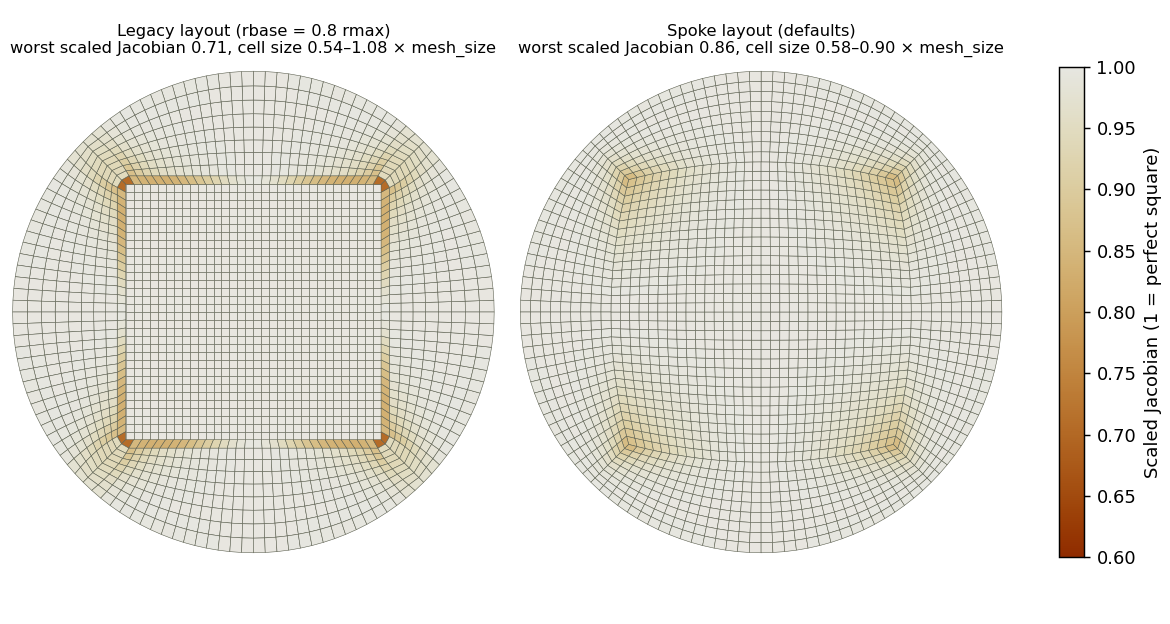
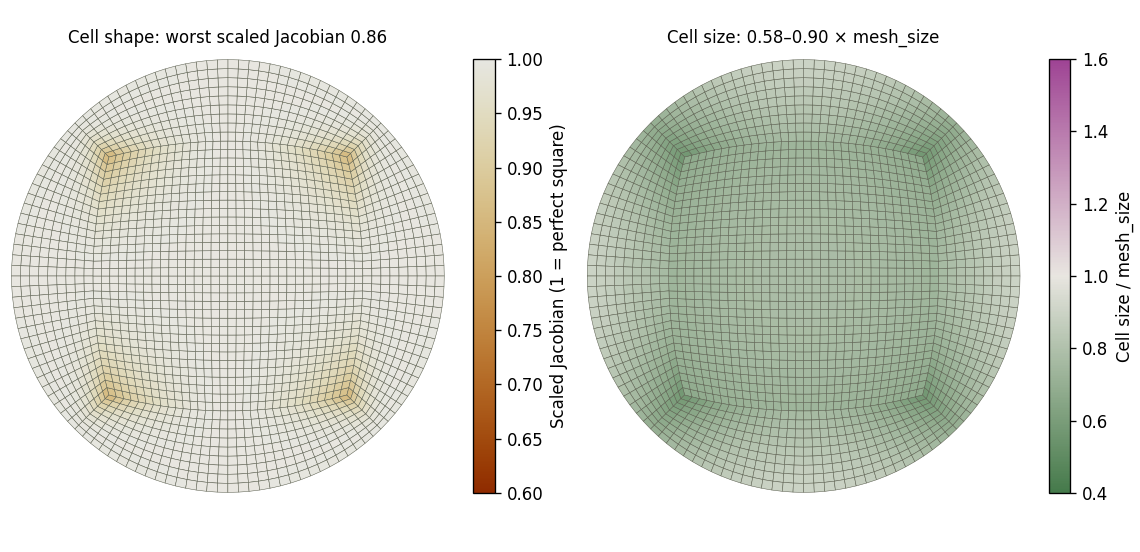
Docs: describe the spoke O-grid as the only cylinder construction
README, module docstring, example config and figure no longer refer to the
removed layout and axial mode.

diff --git a/cylindricalMesh.py b/cylindricalMesh.py
@@ -1,62 +1,22 @@
 #!/usr/bin/env python3
-"""Generate a legacy-compatible cylindrical HEX8 mesh from a TOML config.
+"""Generate a cylindrical HEX8 mesh (ASCII VTK) from a TOML config.
 
-This script is a clean refactor of the old custom generator and keeps the same
-core cross-section construction (square core + morphed cylindrical rings).
+Cross-section: an O-grid of a bulged square core and rings on straight spokes
+from the core boundary to the circle, extruded along the cylinder axis. See
+README.md for every config key and for how the mesh is built and tuned.
 
 Usage:
   python cylindricalMesh.py --config cylindricalMesh.example.toml
 
-Config format (TOML):
+Minimal config:
 
 [mesh]
-output_folder = "./output"
-output_filename = "cylinder.vtk"
-append_hmax = true
-
-rmax = 300.0
-length = 600.0
-length_axis = "z"  # one of: x, y, z
-
-# Set either a general mesh size or a manual angular resolution h.
-mesh_size = 10.0
-# h = 48
-
-# Cross-section layout (default "spoke"):
-# layout = "spoke"   # bulged square core + rings on straight spokes to the circle
-# core_fraction = 0.55 # core half-width / rmax
-# core_bulge = 0.134 # mid-side bow of the core edges / half-width; tan(15 deg)/2
-#                    # makes the core corners 120 deg (worst scaled Jacobian 0.866)
-# nr = 40            # radial layers - 1; default sizes them to mesh_size
-#
-# The defaults do not depend on resolution. Worst cells are the three meeting at
-# each core corner (all 120 deg) and the rim cells on the diagonals, which are
-# radially squeezed because the diagonal spoke is the shortest:
-#   least stretched cells : pi/(4 c) = (1 - c(1+b)) / (1 - sqrt(2) c)  -> c ~ 0.51
-#   most uniform sizes    : c ~ 0.58;  0.55 is within ~15 % of both.
-#
-# layout = "legacy" reproduces meshes from before the spoke layout and uses:
-# rbase = 225.0
-# nr = 25
-# tune_transition = true # auto-tune square core and outer region for size uniformity
-# axis_start = 300.0 # optional override; default centers mesh around 0
-# shift = [0.0, 0.0, 0.0]
-
-# Axial discretization modes:
-# axial_mode = "legacy"       # default, reproduces old stacking behavior
-# axial_mode = "fixed_layers" # requires n_layers
-# axial_mode = "fixed_dz"     # requires dz
-# axial_mode = "mesh_size"    # uses mesh_size to set dz close to target
-# n_layers = 88
-# dz = 6.9
+rmax = 150.0
+length = 300.0
+mesh_size = 1.5
 
 [fields]
-write = true
-n1 = 1.4
-n2 = 1.0
-amax = 0.5
-amin = 0.02
-profile_radius = 1.0
+write = false
 """
 
 from __future__ import annotations

diff --git a/README.md b/README.md
@@ -6,9 +6,9 @@ MIRAGE / mirageVPP ray-tracing and curing simulations:
 - `cylindricalMesh.py` builds a cylinder (for example a TVAM vial) as an O-grid: a square core plus rings that blend into the circle, extruded along an axis.
 - `cuboidMesh.py` builds a box of hexahedra (for example a DLP vat or a slab).
 
-Both write legacy ASCII VTK (`DATASET UNSTRUCTURED_GRID`, cell type 12), which is the format MIRAGE reads.
+Both write VTK 3.0 ASCII files (`DATASET UNSTRUCTURED_GRID`, cell type 12), which is the format MIRAGE reads.
 
-![Cross-section of the legacy and the spoke cylinder layout, coloured by scaled Jacobian](docs/cross_section.png)
+![Cylinder cross-section at 20 cells across the radius, coloured by scaled Jacobian and by cell size](docs/cross_section.png)
 
 ## Requirements
 
@@ -57,30 +57,27 @@ aliases, the first one present in the list is used.
 | `rmax` (`outer_radius`) | required | Cylinder radius. |
 | `length` (`z_length`) | required | Length along the axis. |
 | `mesh_size` (`elem_size`, `element_size`, `target_mesh_size`) | - | Target edge length. Sets the angular resolution, the radial layers and (in `mesh_size` axial mode) the axial step. |
-| `h` (`angular_resolution`) | from `mesh_size` | Overrides the angular resolution: `ntheta = 8 h` nodes around the circle, `2 h` cells per side of the core. Give `h` or `mesh_size`. |
+| `h` (`angular_resolution`) | from `mesh_size` | Overrides the angular resolution: `ntheta = 8 h` nodes around the circle, `2 h` cells per side of the core. Give `h` or `mesh_size`; with only `h`, the rim cell width is used as the target size. |
 | `length_axis` (`axis`, `cylinder_axis`) | `"z"` | Cylinder axis: `x`, `y` or `z`. |
 | `axis_start` (`z_start`, `z0`, `start`) | `length/2` | Axial position of the first node layer. Layers run towards negative values, so the default centres the mesh on 0. |
 | `shift` (`origin_shift`, `offset`) | `[0, 0, 0]` | Translation applied to all points. |
 
-### Cross-section layout
+### Cross-section
 
-| Key | Default | Meaning |
+| Key (aliases) | Default | Meaning |
 |---|---|---|
-| `layout` | `"spoke"` | `"spoke"`: bulged square core plus rings on straight spokes (see [How the cylinder mesh is built](#how-the-cylinder-mesh-is-built)). `"legacy"`: the previous generator, kept so old meshes can be reproduced exactly. |
-| `core_fraction` | `0.55` | Spoke only. Core half-width divided by `rmax`. Must satisfy `core_fraction * max(sqrt(2), 1 + core_bulge) < 1`. |
-| `core_bulge` | `0.134` | Spoke only. Outward bow of each core edge at mid-side, as a fraction of the half-width. The default, tan(15 deg)/2, makes the core corners 120 deg. |
-| `nr` (`n_radial`) | from `mesh_size` | Number of rings minus one, so the annulus has `nr + 1` cell layers. Used by both layouts. |
-| `rbase` (`inner_radius`, `transition_radius`) | `0.75 rmax` | Legacy only. Radius where the outer rings start. Ignored with a warning in the spoke layout. |
-| `tune_transition` (`tune_uniformity`, `auto_tune_regions`) | on if `rbase` or `nr` is missing | Legacy only. Searches `rbase` and `nr` for size uniformity. |
+| `core_fraction` | `0.55` | Core half-width divided by `rmax`. Must satisfy `core_fraction * max(sqrt(2), 1 + core_bulge) < 1`. |
+| `core_bulge` | `0.134` | Outward bow of each core edge at mid-side, as a fraction of the half-width. The default, tan(15 deg)/2, makes the core corners 120 deg. |
+| `nr` (`n_radial`) | from the target size | Number of rings minus one, so the annulus has `nr + 1` cell layers. |
 
-The spoke defaults are the same at every resolution, so in normal use only
-`rmax`, `length` and `mesh_size` need to be set.
+These defaults are optimal at every resolution (see [Tuning](#tuning)), so in
+normal use only `rmax`, `length` and `mesh_size` need to be set.
 
 ### Axial discretization
 
 | Key (aliases) | Meaning |
 |---|---|
-| `axial_mode` (`z_mode`) | `mesh_size` (default when `mesh_size` is set): `round(length / mesh_size)` layers. `fixed_layers`: needs `n_layers` (`layers`, `nz`). `fixed_dz`: needs `dz` (`axial_step`), rounded so the layers fill `length`. `legacy` (default without `mesh_size`): optional `target_dz`; note that this mode makes the mesh one `dz` longer than `length`. |
+| `axial_mode` (`z_mode`) | `mesh_size` (default): `round(length / target size)` layers. `fixed_layers`: needs `n_layers` (`layers`, `nz`). `fixed_dz`: needs `dz` (`axial_step`), rounded so the layers fill `length`. |
 
 ### Output
 
@@ -201,28 +198,10 @@ the best on all three at once.
 Grading the radial layers along the diagonal spokes, and Laplacian smoothing of
 the nodes, were both tested and made the mesh worse, so neither is used.
 
-### Result
+### Resulting quality
 
-Tutorial cone vial ($R = 150$, `mesh_size` 1.5):
-
-| Layout | Worst scaled Jacobian | Largest aspect ratio | Cell size / target | Size CV | Cells per layer |
-|---|---|---|---|---|---|
-| legacy (`rbase = 120`) | 0.45 | 4.9 | 0.49 - 1.11 | 0.148 | 49,920 |
-| spoke (defaults) | 0.865 | 1.77 | 0.61 - 0.98 | 0.086 | 48,672 |
-
-The spoke numbers stay the same under refinement, while the legacy layout
-degrades as the mesh is refined (worst scaled Jacobian 0.71 at 10 cells across
-the radius, 0.33 at 150).
-
-### Legacy layout
-
-`layout = "legacy"` keeps the previous construction unchanged. Each ring
-blends, with weight $i / n_r$, from a square of half-width $r / \sqrt{2}$ to the
-circle; on the flat sides the node positions mix arc spacing and linear spacing,
-and the diagonal node is moved inward by one radial step. Two features of this
-construction cause its distorted cells:
-
-- the linear spacing on the flat sides spans the core half-width instead of the ring's own half-width, which leaves wide, kinked cells next to the diagonals;
-- the first ring uses partly arc spacing while the core boundary is linearly spaced, which skews the transition layer.
-
-`rbase` and `nr` are chosen by `tune_transition` from a size model of the regions.
+A vial with $R = 150$ and `mesh_size` 1.5 (100 cells across the radius,
+48,672 cells per layer) has worst scaled Jacobian 0.865, largest aspect ratio
+1.77, and cell sizes between 0.61 and 0.98 times `mesh_size` (CV 0.086). These
+numbers stay the same when the mesh is refined or coarsened, because the shape
+of the cross-section depends only on $b$ and $c$.
